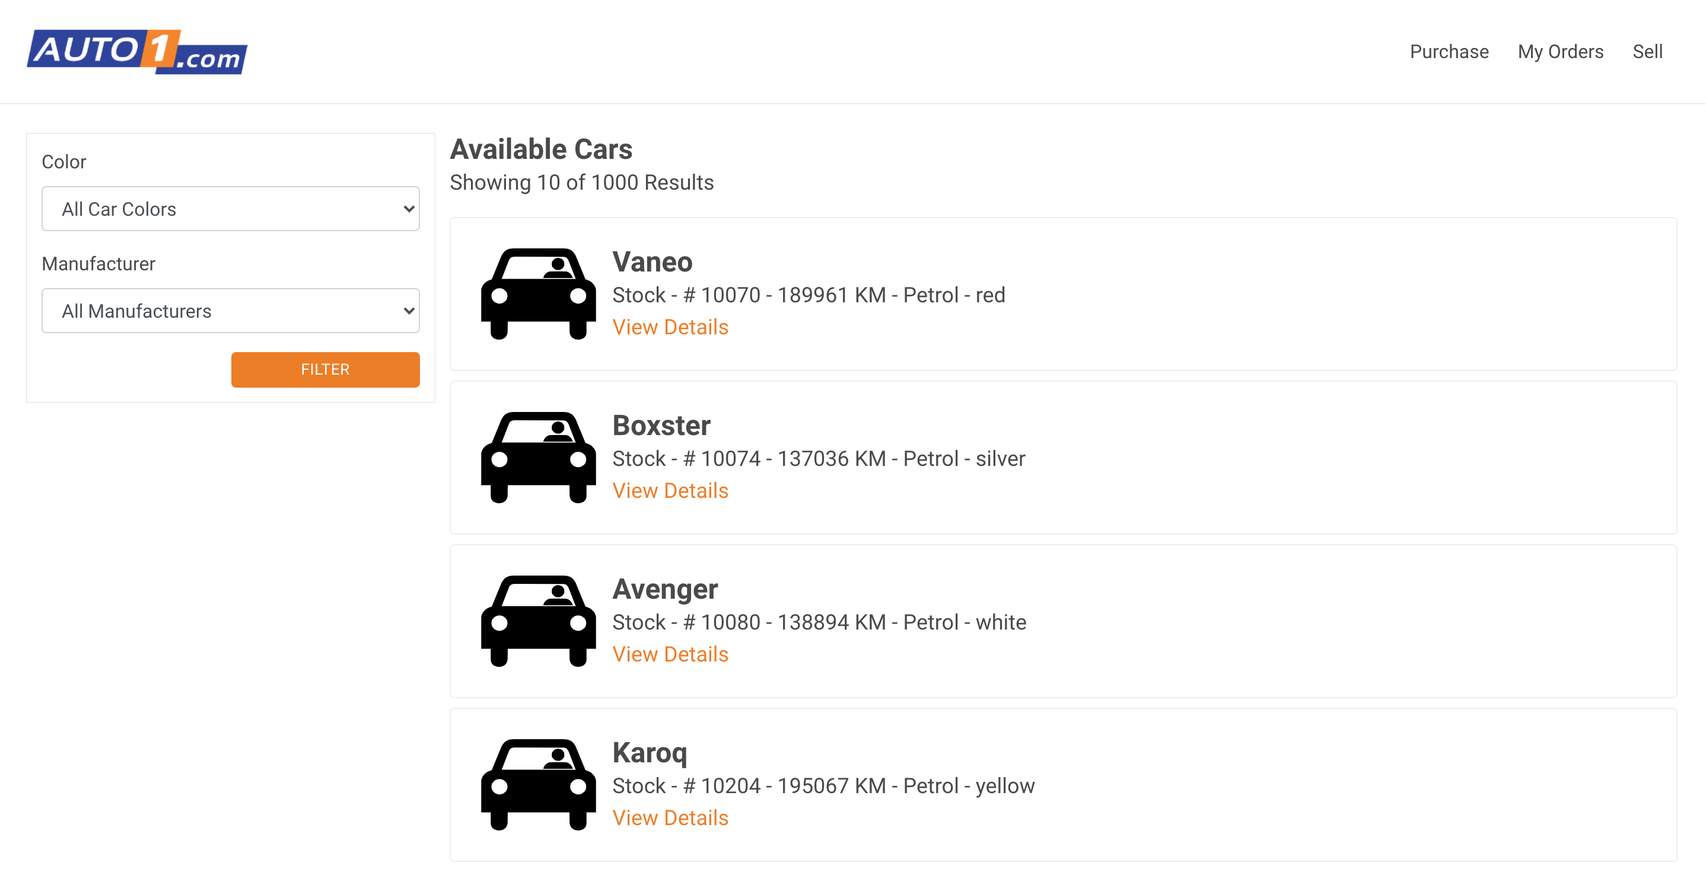
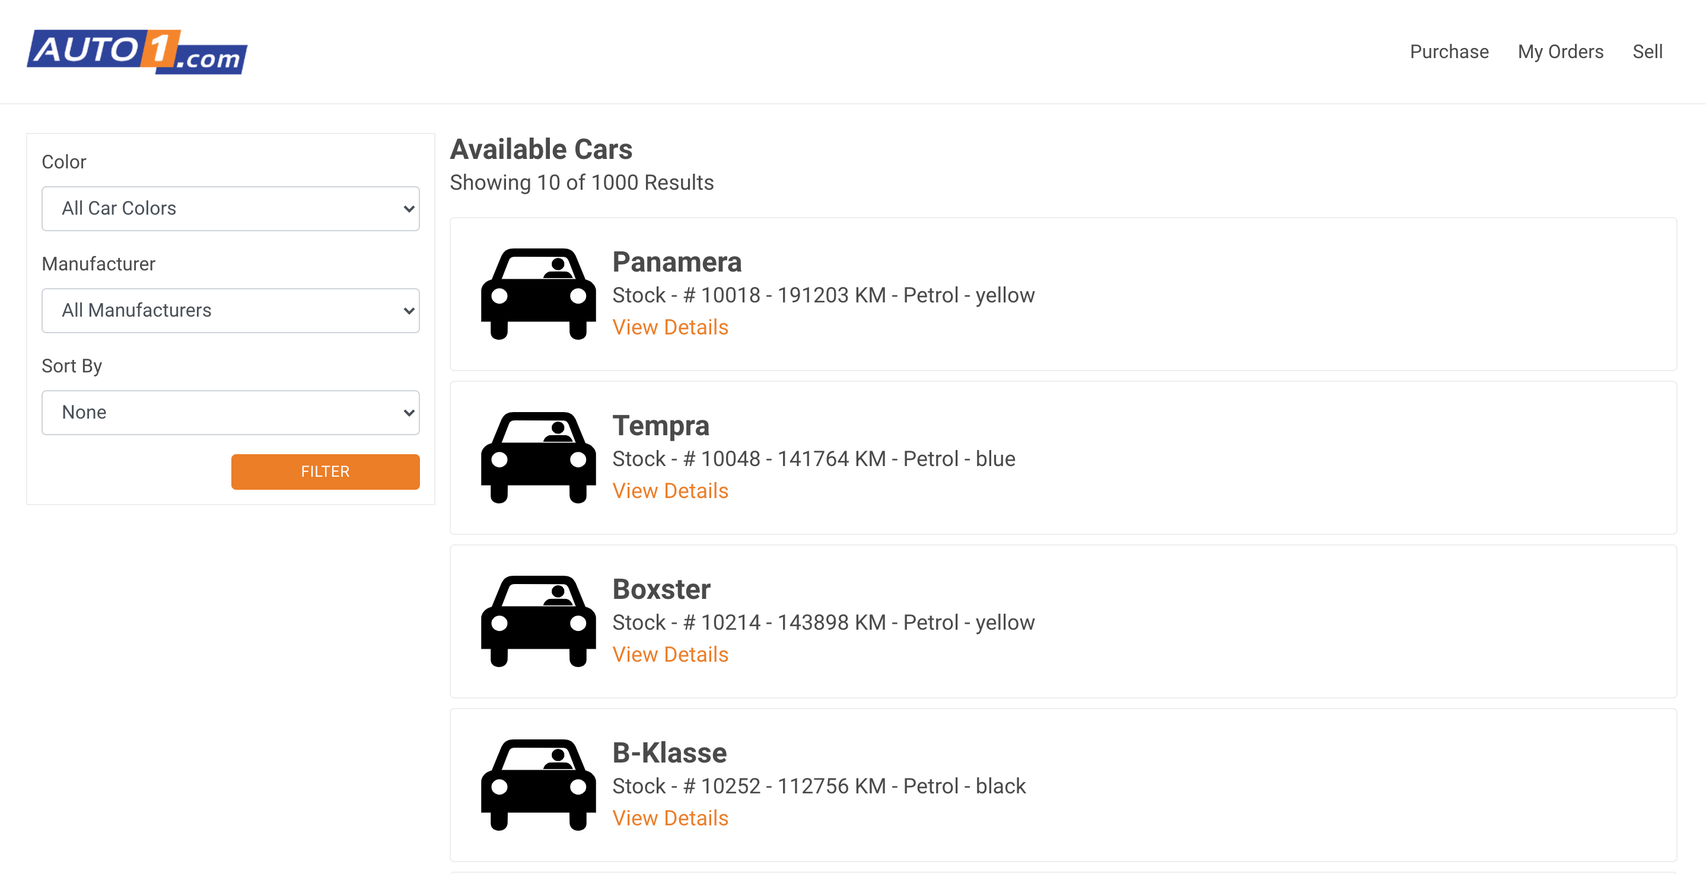
Updates

diff --git a/index.html b/index.html
@@ -1,1 +1,1 @@
-<!doctype html><html lang="en"><head><meta charset="utf-8"/><link rel="icon" href="/car-market/favicon.ico"/><meta name="viewport" content="width=device-width,initial-scale=1"/><meta name="theme-color" content="#000000"/><meta name="description" content="You can find your favourite car here!"/><link rel="apple-touch-icon" href="/car-market/logo192.png"/><link href="https://fonts.googleapis.com/css2?family=Roboto:wght@400;700&display=swap" rel="stylesheet"><link rel="stylesheet" href="https://stackpath.bootstrapcdn.com/bootstrap/4.5.2/css/bootstrap.min.css" integrity="sha384-JcKb8q3iqJ61gNV9KGb8thSsNjpSL0n8PARn9HuZOnIxN0hoP+VmmDGMN5t9UJ0Z" crossorigin="anonymous"><link rel="apple-touch-icon" sizes="57x57" href="/apple-icon-57x57.png"><link rel="apple-touch-icon" sizes="60x60" href="/apple-icon-60x60.png"><link rel="apple-touch-icon" sizes="72x72" href="/apple-icon-72x72.png"><link rel="apple-touch-icon" sizes="76x76" href="/apple-icon-76x76.png"><link rel="apple-touch-icon" sizes="114x114" href="/apple-icon-114x114.png"><link rel="apple-touch-icon" sizes="120x120" href="/apple-icon-120x120.png"><link rel="apple-touch-icon" sizes="144x144" href="/apple-icon-144x144.png"><link rel="apple-touch-icon" sizes="152x152" href="/apple-icon-152x152.png"><link rel="apple-touch-icon" sizes="180x180" href="/apple-icon-180x180.png"><link rel="icon" type="image/png" sizes="192x192" href="/android-icon-192x192.png"><link rel="icon" type="image/png" sizes="32x32" href="/favicon-32x32.png"><link rel="icon" type="image/png" sizes="96x96" href="/favicon-96x96.png"><link rel="icon" type="image/png" sizes="16x16" href="/favicon-16x16.png"><link rel="manifest" href="/manifest.json"><meta name="msapplication-TileColor" content="#ffffff"><meta name="msapplication-TileImage" content="/ms-icon-144x144.png"><meta name="theme-color" content="#ffffff"><link rel="manifest" href="/car-market/manifest.json"/><title>Second Hand Auto Market</title><link href="/car-market/static/css/main.5013f705.chunk.css" rel="stylesheet"></head><body><noscript>You need to enable JavaScript to run this app.</noscript><div id="root"></div><script>!function(e){function t(t){for(var n,o,i=t[0],c=t[1],l=t[2],f=0,p=[];f<i.length;f++)o=i[f],Object.prototype.hasOwnProperty.call(a,o)&&a[o]&&p.push(a[o][0]),a[o]=0;for(n in c)Object.prototype.hasOwnProperty.call(c,n)&&(e[n]=c[n]);for(s&&s(t);p.length;)p.shift()();return u.push.apply(u,l||[]),r()}function r(){for(var e,t=0;t<u.length;t++){for(var r=u[t],n=!0,o=1;o<r.length;o++){var c=r[o];0!==a[c]&&(n=!1)}n&&(u.splice(t--,1),e=i(i.s=r[0]))}return e}var n={},o={2:0},a={2:0},u=[];function i(t){if(n[t])return n[t].exports;var r=n[t]={i:t,l:!1,exports:{}};return e[t].call(r.exports,r,r.exports,i),r.l=!0,r.exports}i.e=function(e){var t=[];o[e]?t.push(o[e]):0!==o[e]&&{5:1,6:1,7:1}[e]&&t.push(o[e]=new Promise((function(t,r){for(var n="static/css/"+({}[e]||e)+"."+{0:"31d6cfe0",4:"31d6cfe0",5:"db647ec7",6:"f9615cb1",7:"1711f841"}[e]+".chunk.css",a=i.p+n,u=document.getElementsByTagName("link"),c=0;c<u.length;c++){var l=(s=u[c]).getAttribute("data-href")||s.getAttribute("href");if("stylesheet"===s.rel&&(l===n||l===a))return t()}var f=document.getElementsByTagName("style");for(c=0;c<f.length;c++){var s;if((l=(s=f[c]).getAttribute("data-href"))===n||l===a)return t()}var p=document.createElement("link");p.rel="stylesheet",p.type="text/css",p.onload=t,p.onerror=function(t){var n=t&&t.target&&t.target.src||a,u=new Error("Loading CSS chunk "+e+" failed.\n("+n+")");u.code="CSS_CHUNK_LOAD_FAILED",u.request=n,delete o[e],p.parentNode.removeChild(p),r(u)},p.href=a,document.getElementsByTagName("head")[0].appendChild(p)})).then((function(){o[e]=0})));var r=a[e];if(0!==r)if(r)t.push(r[2]);else{var n=new Promise((function(t,n){r=a[e]=[t,n]}));t.push(r[2]=n);var u,c=document.createElement("script");c.charset="utf-8",c.timeout=120,i.nc&&c.setAttribute("nonce",i.nc),c.src=function(e){return i.p+"static/js/"+({}[e]||e)+"."+{0:"fe3cbf11",4:"f670e531",5:"468bd410",6:"6a3b373b",7:"e05f62a9"}[e]+".chunk.js"}(e);var l=new Error;u=function(t){c.onerror=c.onload=null,clearTimeout(f);var r=a[e];if(0!==r){if(r){var n=t&&("load"===t.type?"missing":t.type),o=t&&t.target&&t.target.src;l.message="Loading chunk "+e+" failed.\n("+n+": "+o+")",l.name="ChunkLoadError",l.type=n,l.request=o,r[1](l)}a[e]=void 0}};var f=setTimeout((function(){u({type:"timeout",target:c})}),12e4);c.onerror=c.onload=u,document.head.appendChild(c)}return Promise.all(t)},i.m=e,i.c=n,i.d=function(e,t,r){i.o(e,t)||Object.defineProperty(e,t,{enumerable:!0,get:r})},i.r=function(e){"undefined"!=typeof Symbol&&Symbol.toStringTag&&Object.defineProperty(e,Symbol.toStringTag,{value:"Module"}),Object.defineProperty(e,"__esModule",{value:!0})},i.t=function(e,t){if(1&t&&(e=i(e)),8&t)return e;if(4&t&&"object"==typeof e&&e&&e.__esModule)return e;var r=Object.create(null);if(i.r(r),Object.defineProperty(r,"default",{enumerable:!0,value:e}),2&t&&"string"!=typeof e)for(var n in e)i.d(r,n,function(t){return e[t]}.bind(null,n));return r},i.n=function(e){var t=e&&e.__esModule?function(){return e.default}:function(){return e};return i.d(t,"a",t),t},i.o=function(e,t){return Object.prototype.hasOwnProperty.call(e,t)},i.p="/car-market/",i.oe=function(e){throw console.error(e),e};var c=this.webpackJsonpauto1=this.webpackJsonpauto1||[],l=c.push.bind(c);c.push=t,c=c.slice();for(var f=0;f<c.length;f++)t(c[f]);var s=l;r()}([])</script><script src="/car-market/static/js/3.25c97d92.chunk.js"></script><script src="/car-market/static/js/main.723fedfa.chunk.js"></script></body></html>
+<!doctype html><html lang="en"><head><meta charset="utf-8"/><link rel="icon" href="/car-market/favicon.ico"/><meta name="viewport" content="width=device-width,initial-scale=1"/><meta name="theme-color" content="#000000"/><meta name="description" content="You can find your favourite car here!"/><link rel="apple-touch-icon" href="/car-market/logo192.png"/><link href="https://fonts.googleapis.com/css2?family=Roboto:wght@400;700&display=swap" rel="stylesheet"><link rel="stylesheet" href="https://stackpath.bootstrapcdn.com/bootstrap/4.5.2/css/bootstrap.min.css" integrity="sha384-JcKb8q3iqJ61gNV9KGb8thSsNjpSL0n8PARn9HuZOnIxN0hoP+VmmDGMN5t9UJ0Z" crossorigin="anonymous"><link rel="apple-touch-icon" sizes="57x57" href="/apple-icon-57x57.png"><link rel="apple-touch-icon" sizes="60x60" href="/apple-icon-60x60.png"><link rel="apple-touch-icon" sizes="72x72" href="/apple-icon-72x72.png"><link rel="apple-touch-icon" sizes="76x76" href="/apple-icon-76x76.png"><link rel="apple-touch-icon" sizes="114x114" href="/apple-icon-114x114.png"><link rel="apple-touch-icon" sizes="120x120" href="/apple-icon-120x120.png"><link rel="apple-touch-icon" sizes="144x144" href="/apple-icon-144x144.png"><link rel="apple-touch-icon" sizes="152x152" href="/apple-icon-152x152.png"><link rel="apple-touch-icon" sizes="180x180" href="/apple-icon-180x180.png"><link rel="icon" type="image/png" sizes="192x192" href="/android-icon-192x192.png"><link rel="icon" type="image/png" sizes="32x32" href="/favicon-32x32.png"><link rel="icon" type="image/png" sizes="96x96" href="/favicon-96x96.png"><link rel="icon" type="image/png" sizes="16x16" href="/favicon-16x16.png"><link rel="manifest" href="/manifest.json"><meta name="msapplication-TileColor" content="#ffffff"><meta name="msapplication-TileImage" content="/ms-icon-144x144.png"><meta name="theme-color" content="#ffffff"><link rel="manifest" href="/car-market/manifest.json"/><title>Second Hand Auto Market</title><link href="/car-market/static/css/main.5013f705.chunk.css" rel="stylesheet"></head><body><noscript>You need to enable JavaScript to run this app.</noscript><div id="root"></div><script>!function(e){function t(t){for(var n,o,i=t[0],c=t[1],f=t[2],l=0,p=[];l<i.length;l++)o=i[l],Object.prototype.hasOwnProperty.call(a,o)&&a[o]&&p.push(a[o][0]),a[o]=0;for(n in c)Object.prototype.hasOwnProperty.call(c,n)&&(e[n]=c[n]);for(s&&s(t);p.length;)p.shift()();return u.push.apply(u,f||[]),r()}function r(){for(var e,t=0;t<u.length;t++){for(var r=u[t],n=!0,o=1;o<r.length;o++){var c=r[o];0!==a[c]&&(n=!1)}n&&(u.splice(t--,1),e=i(i.s=r[0]))}return e}var n={},o={2:0},a={2:0},u=[];function i(t){if(n[t])return n[t].exports;var r=n[t]={i:t,l:!1,exports:{}};return e[t].call(r.exports,r,r.exports,i),r.l=!0,r.exports}i.e=function(e){var t=[];o[e]?t.push(o[e]):0!==o[e]&&{5:1,6:1,7:1}[e]&&t.push(o[e]=new Promise((function(t,r){for(var n="static/css/"+({}[e]||e)+"."+{0:"31d6cfe0",4:"31d6cfe0",5:"db647ec7",6:"f9615cb1",7:"1711f841"}[e]+".chunk.css",a=i.p+n,u=document.getElementsByTagName("link"),c=0;c<u.length;c++){var f=(s=u[c]).getAttribute("data-href")||s.getAttribute("href");if("stylesheet"===s.rel&&(f===n||f===a))return t()}var l=document.getElementsByTagName("style");for(c=0;c<l.length;c++){var s;if((f=(s=l[c]).getAttribute("data-href"))===n||f===a)return t()}var p=document.createElement("link");p.rel="stylesheet",p.type="text/css",p.onload=t,p.onerror=function(t){var n=t&&t.target&&t.target.src||a,u=new Error("Loading CSS chunk "+e+" failed.\n("+n+")");u.code="CSS_CHUNK_LOAD_FAILED",u.request=n,delete o[e],p.parentNode.removeChild(p),r(u)},p.href=a,document.getElementsByTagName("head")[0].appendChild(p)})).then((function(){o[e]=0})));var r=a[e];if(0!==r)if(r)t.push(r[2]);else{var n=new Promise((function(t,n){r=a[e]=[t,n]}));t.push(r[2]=n);var u,c=document.createElement("script");c.charset="utf-8",c.timeout=120,i.nc&&c.setAttribute("nonce",i.nc),c.src=function(e){return i.p+"static/js/"+({}[e]||e)+"."+{0:"fe3cbf11",4:"f670e531",5:"b306395f",6:"f315a627",7:"e05f62a9"}[e]+".chunk.js"}(e);var f=new Error;u=function(t){c.onerror=c.onload=null,clearTimeout(l);var r=a[e];if(0!==r){if(r){var n=t&&("load"===t.type?"missing":t.type),o=t&&t.target&&t.target.src;f.message="Loading chunk "+e+" failed.\n("+n+": "+o+")",f.name="ChunkLoadError",f.type=n,f.request=o,r[1](f)}a[e]=void 0}};var l=setTimeout((function(){u({type:"timeout",target:c})}),12e4);c.onerror=c.onload=u,document.head.appendChild(c)}return Promise.all(t)},i.m=e,i.c=n,i.d=function(e,t,r){i.o(e,t)||Object.defineProperty(e,t,{enumerable:!0,get:r})},i.r=function(e){"undefined"!=typeof Symbol&&Symbol.toStringTag&&Object.defineProperty(e,Symbol.toStringTag,{value:"Module"}),Object.defineProperty(e,"__esModule",{value:!0})},i.t=function(e,t){if(1&t&&(e=i(e)),8&t)return e;if(4&t&&"object"==typeof e&&e&&e.__esModule)return e;var r=Object.create(null);if(i.r(r),Object.defineProperty(r,"default",{enumerable:!0,value:e}),2&t&&"string"!=typeof e)for(var n in e)i.d(r,n,function(t){return e[t]}.bind(null,n));return r},i.n=function(e){var t=e&&e.__esModule?function(){return e.default}:function(){return e};return i.d(t,"a",t),t},i.o=function(e,t){return Object.prototype.hasOwnProperty.call(e,t)},i.p="/car-market/",i.oe=function(e){throw console.error(e),e};var c=this.webpackJsonpauto1=this.webpackJsonpauto1||[],f=c.push.bind(c);c.push=t,c=c.slice();for(var l=0;l<c.length;l++)t(c[l]);var s=f;r()}([])</script><script src="/car-market/static/js/3.25c97d92.chunk.js"></script><script src="/car-market/static/js/main.723fedfa.chunk.js"></script></body></html>

diff --git a/static/js/5.b306395f.chunk.js b/static/js/5.b306395f.chunk.js
@@ -1,0 +1,2 @@
+(this.webpackJsonpauto1=this.webpackJsonpauto1||[]).push([[5],{111:function(e,t,a){},113:function(e,t,a){},114:function(e,t,a){},134:function(e,t,a){"use strict";a.r(t);var n=a(0),c=a.n(n),l=a(11),r=a(19),o=a(14),i=a.n(o),s=a(105),u=a(17),m=a(116),d=a(31),b=a(133),p=a(132),f=(a(111),a(91)),E=a(30),g=function(){var e=Object(r.b)(),t=Object(r.c)(E.d),a=Object(r.c)(E.h),n=Object(r.c)(E.i),o=Object(r.c)(E.c),g=Object(r.c)(E.g);return c.a.createElement("div",{className:"form-container"},c.a.createElement(m.a,{enableReinitialize:!0,initialValues:{color:o,manufacturer:g,sort:n},onSubmit:function(){var t=Object(u.a)(i.a.mark((function t(a){return i.a.wrap((function(t){for(;;)switch(t.prev=t.next){case 0:e(Object(d.c)(1)),e(Object(d.a)(a.color)),e(Object(d.b)(a.manufacturer)),e(Object(d.d)(a.sort)),e(Object(l.b)(Object(s.a)(Object(s.a)({},a),{},{page:1})));case 5:case"end":return t.stop()}}),t)})));return function(e){return t.apply(this,arguments)}}()},(function(e){var l=e.handleSubmit,r=e.handleChange;return c.a.createElement(b.a,{onSubmit:l},c.a.createElement(b.a.Group,{controlId:"color",onChange:r},c.a.createElement(b.a.Label,null,"Color"),c.a.createElement(b.a.Control,{as:"select","data-testid":"select-color",defaultValue:o},c.a.createElement("option",{value:"","data-testid":"select-color-option"},"All Car Colors"),t.data.map((function(e){return c.a.createElement("option",{key:e,"data-testid":"select-color-option",value:e},Object(f.a)(e))})))),c.a.createElement(b.a.Group,{controlId:"manufacturer",onChange:r},c.a.createElement(b.a.Label,null,"Manufacturer"),c.a.createElement(b.a.Control,{as:"select",defaultValue:g},c.a.createElement("option",{value:"","data-testid":"select-manufacturer-option"},"All Manufacturers"),a.data.map((function(e){return c.a.createElement("option",{key:e.name,"data-testid":"select-manufacturer-option",value:e.name},e.name)})))),c.a.createElement(b.a.Group,{controlId:"sort",onChange:r},c.a.createElement(b.a.Label,null,"Sort By"),c.a.createElement(b.a.Control,{as:"select",defaultValue:n},c.a.createElement("option",{value:"","data-testid":"select-sort-option"},"None"),c.a.createElement("option",{value:"asc","data-testid":"select-sort-option"},"Mileage - Ascending"),c.a.createElement("option",{value:"des","data-testid":"select-sort-option"},"Mileage - Descending"))),c.a.createElement("div",{className:"d-flex justify-content-end"},c.a.createElement(p.a,{type:"submit",className:"form-button","data-testid":"form-button",size:"small"},"Filter")))})))},j=a(130),O=a(135),h=a(20),v=function(e){var t=e.car,a=t.stockNumber,n=t.pictureUrl,l=t.modelName,r=t.fuelType,o=t.mileage.number,i=t.color;return c.a.createElement(j.a,null,c.a.createElement(O.a,{className:"d-flex align-items-center"},c.a.createElement("div",null,c.a.createElement("img",{src:n,className:"card-image",alt:"Car Logo"})),c.a.createElement(O.a.Body,null,c.a.createElement(O.a.Title,null,c.a.createElement("h1",null,l)),c.a.createElement(O.a.Text,null,"Stock - # ",a," - ",o," KM - ",r," - ",i),c.a.createElement(O.a.Text,null,c.a.createElement(h.b,{to:"details/".concat(a),className:"details","data-testid":"view-details"},"View Details")))))},C=(a(113),a(9)),N=a.n(C),y=function(){var e=Object(r.c)(E.b),t=Object(r.c)(E.e),a=Object(r.c)(E.g),n=Object(r.c)(E.i),o=Object(r.c)(E.c),i=e.totalPageCount,s=Object(r.b)(),u=1===t,m=t===i;return c.a.createElement("div",{className:"d-flex justify-content-center mt-3 mb-3"},c.a.createElement("span",{className:N()({"enabled-pagination":!u,"disabled-pagination":u}),onClick:function(){!u&&s(Object(d.c)(1));var e={manufacturer:a,page:1,color:o,sort:n};!u&&s(Object(l.b)(e))},"data-testid":"first-button"},"First"),c.a.createElement("span",{className:N()({"enabled-pagination":!u,"disabled-pagination":u}),onClick:function(){!u&&s(Object(d.f)());var e={manufacturer:a,page:t-1,color:o,sort:n};!u&&s(Object(l.b)(e))},"data-testid":"previous-button"},"Previous"),c.a.createElement("span",{className:"disabled-pagination"},"Page ",t," of ",i),c.a.createElement("span",{className:N()({"enabled-pagination":!m,"disabled-pagination":m}),onClick:function(){!m&&s(Object(d.h)());var e={manufacturer:a,page:t+1,color:o,sort:n};!m&&s(Object(l.b)(e))},"data-testid":"next-button"},"Next"),c.a.createElement("span",{className:N()({"enabled-pagination":!m,"disabled-pagination":m}),onClick:function(){!m&&s(Object(d.c)(i));var e={manufacturer:a,page:i,color:o,sort:n};!m&&s(Object(l.b)(e))},"data-testid":"last-button"},"Last"))},k=a(94),w=a.n(k),x=function(){return new Array(10).fill(0).map((function(e,t){return c.a.createElement(j.a,{key:t},c.a.createElement(O.a,{style:{paddingBottom:"16px",paddingTop:"16px"}},c.a.createElement(w.a,{width:104,height:90}),c.a.createElement(O.a.Body,{className:"d-flex flex-column ml-3"},c.a.createElement(w.a,{width:95,height:28}),c.a.createElement(w.a,{width:170,height:28}),c.a.createElement(w.a,{width:100,height:28}))))}))},L=function(){var e=Object(r.c)(E.b);return c.a.createElement("div",{className:"list-container"},c.a.createElement("h1",null,"Available Cars"),c.a.createElement("p",null,"Showing ",e.data.length||10," of ",e.totalCarsCount," Results"),c.a.createElement("div",null,e.data.length>0?e.data.map((function(e){return c.a.createElement(v,{key:"".concat(e.mileage.number,"-").concat(e.stockNumber),car:e})})):c.a.createElement(x,null)),c.a.createElement(y,null))};a(114),t.default=function(){var e=Object(r.b)(),t=Object(r.c)(E.d),a=Object(r.c)(E.h),o=Object(r.c)(E.b);return Object(n.useEffect)((function(){!t.isLoaded&&e(Object(l.c)()),!a.isLoaded&&e(Object(l.d)()),!o.isLoaded&&e(Object(l.b)({page:1}))}),[]),c.a.createElement("div",{className:"home-content"},c.a.createElement(g,null),c.a.createElement(L,null))}},91:function(e,t,a){"use strict";a.d(t,"a",(function(){return n}));var n=function(e){return"string"!==typeof e?"":e.charAt(0).toUpperCase()+e.slice(1)}}}]);
+//# sourceMappingURL=5.b306395f.chunk.js.map

diff --git a/static/js/runtime-main.e8e352ad.js b/static/js/runtime-main.e8e352ad.js
@@ -1,0 +1,2 @@
+!function(e){function t(t){for(var n,o,i=t[0],c=t[1],f=t[2],l=0,p=[];l<i.length;l++)o=i[l],Object.prototype.hasOwnProperty.call(a,o)&&a[o]&&p.push(a[o][0]),a[o]=0;for(n in c)Object.prototype.hasOwnProperty.call(c,n)&&(e[n]=c[n]);for(s&&s(t);p.length;)p.shift()();return u.push.apply(u,f||[]),r()}function r(){for(var e,t=0;t<u.length;t++){for(var r=u[t],n=!0,o=1;o<r.length;o++){var c=r[o];0!==a[c]&&(n=!1)}n&&(u.splice(t--,1),e=i(i.s=r[0]))}return e}var n={},o={2:0},a={2:0},u=[];function i(t){if(n[t])return n[t].exports;var r=n[t]={i:t,l:!1,exports:{}};return e[t].call(r.exports,r,r.exports,i),r.l=!0,r.exports}i.e=function(e){var t=[];o[e]?t.push(o[e]):0!==o[e]&&{5:1,6:1,7:1}[e]&&t.push(o[e]=new Promise((function(t,r){for(var n="static/css/"+({}[e]||e)+"."+{0:"31d6cfe0",4:"31d6cfe0",5:"db647ec7",6:"f9615cb1",7:"1711f841"}[e]+".chunk.css",a=i.p+n,u=document.getElementsByTagName("link"),c=0;c<u.length;c++){var f=(s=u[c]).getAttribute("data-href")||s.getAttribute("href");if("stylesheet"===s.rel&&(f===n||f===a))return t()}var l=document.getElementsByTagName("style");for(c=0;c<l.length;c++){var s;if((f=(s=l[c]).getAttribute("data-href"))===n||f===a)return t()}var p=document.createElement("link");p.rel="stylesheet",p.type="text/css",p.onload=t,p.onerror=function(t){var n=t&&t.target&&t.target.src||a,u=new Error("Loading CSS chunk "+e+" failed.\n("+n+")");u.code="CSS_CHUNK_LOAD_FAILED",u.request=n,delete o[e],p.parentNode.removeChild(p),r(u)},p.href=a,document.getElementsByTagName("head")[0].appendChild(p)})).then((function(){o[e]=0})));var r=a[e];if(0!==r)if(r)t.push(r[2]);else{var n=new Promise((function(t,n){r=a[e]=[t,n]}));t.push(r[2]=n);var u,c=document.createElement("script");c.charset="utf-8",c.timeout=120,i.nc&&c.setAttribute("nonce",i.nc),c.src=function(e){return i.p+"static/js/"+({}[e]||e)+"."+{0:"fe3cbf11",4:"f670e531",5:"b306395f",6:"f315a627",7:"e05f62a9"}[e]+".chunk.js"}(e);var f=new Error;u=function(t){c.onerror=c.onload=null,clearTimeout(l);var r=a[e];if(0!==r){if(r){var n=t&&("load"===t.type?"missing":t.type),o=t&&t.target&&t.target.src;f.message="Loading chunk "+e+" failed.\n("+n+": "+o+")",f.name="ChunkLoadError",f.type=n,f.request=o,r[1](f)}a[e]=void 0}};var l=setTimeout((function(){u({type:"timeout",target:c})}),12e4);c.onerror=c.onload=u,document.head.appendChild(c)}return Promise.all(t)},i.m=e,i.c=n,i.d=function(e,t,r){i.o(e,t)||Object.defineProperty(e,t,{enumerable:!0,get:r})},i.r=function(e){"undefined"!==typeof Symbol&&Symbol.toStringTag&&Object.defineProperty(e,Symbol.toStringTag,{value:"Module"}),Object.defineProperty(e,"__esModule",{value:!0})},i.t=function(e,t){if(1&t&&(e=i(e)),8&t)return e;if(4&t&&"object"===typeof e&&e&&e.__esModule)return e;var r=Object.create(null);if(i.r(r),Object.defineProperty(r,"default",{enumerable:!0,value:e}),2&t&&"string"!=typeof e)for(var n in e)i.d(r,n,function(t){return e[t]}.bind(null,n));return r},i.n=function(e){var t=e&&e.__esModule?function(){return e.default}:function(){return e};return i.d(t,"a",t),t},i.o=function(e,t){return Object.prototype.hasOwnProperty.call(e,t)},i.p="/car-market/",i.oe=function(e){throw console.error(e),e};var c=this.webpackJsonpauto1=this.webpackJsonpauto1||[],f=c.push.bind(c);c.push=t,c=c.slice();for(var l=0;l<c.length;l++)t(c[l]);var s=f;r()}([]);
+//# sourceMappingURL=runtime-main.e8e352ad.js.map

diff --git a/static/js/6.f315a627.chunk.js b/static/js/6.f315a627.chunk.js
@@ -1,0 +1,2 @@
+(this.webpackJsonpauto1=this.webpackJsonpauto1||[]).push([[6],{102:function(e,t,a){},129:function(e,t,a){"use strict";a.r(t);var n=a(44),c=a(0),l=a.n(c),r=a(3),i=a(19),o=a(11),s=a(31),m=(a(102),a(94)),u=a.n(m),d=a(130),f=a(135),b=a(132),v=a(91),E=a(30);t.default=function(){var e;Object(c.useEffect)((function(){return h(Object(o.a)(t)),function(){h(Object(s.e)())}}),[]);var t=Object(r.f)().id,a=localStorage.getItem(t),m=Object(i.c)(E.a),h=Object(i.b)(),g=Object(c.useState)(a),p=Object(n.a)(g,2),N=p[0],y=p[1];return l.a.createElement("div",{className:"details-page-content"},l.a.createElement("div",{className:"w-100 text-center"},m.pictureUrl?l.a.createElement("img",{src:m.pictureUrl,alt:"Car Logo"}):l.a.createElement(u.a,{width:300,height:260,className:"m-0"})),l.a.createElement("div",{className:"content-container"},l.a.createElement(d.a,null,l.a.createElement(f.a,{className:"d-flex align-items-center"},l.a.createElement(f.a.Body,null,l.a.createElement(f.a.Title,null,l.a.createElement("h1",null,m.modelName||l.a.createElement(u.a,{className:"m-0",width:100}))),l.a.createElement(f.a.Text,null,"Stock #"," ",m.stockNumber?"".concat(m.stockNumber," - ").concat(null===m||void 0===m||null===(e=m.mileage)||void 0===e?void 0:e.number," KM - ").concat(m.fuelType," - ").concat(Object(v.a)(m.color)):l.a.createElement(u.a,{className:"m-0",width:150})),l.a.createElement(f.a.Text,{className:"detail-text"},"This car is currently available and can be delivered as soon as tomorrow morning. Please be aware that delivery times shown in this page are not definitive and may change due to bad weather conditions.")))),l.a.createElement(d.a,null,l.a.createElement(f.a,{className:"d-flex align-items-center"},l.a.createElement(f.a.Body,null,l.a.createElement(f.a.Text,null,"If you like this car, click the button and save it in your collection of favourite items."),l.a.createElement("div",{className:"d-flex justify-content-end"},l.a.createElement(b.a,{type:"submit",className:"form-button mt-2","data-testid":"save-button",size:"small",onClick:function(){N?(y(!1),localStorage.removeItem(t)):(y(!0),localStorage.setItem(t,!0))}},a?"UnSave":"Save")))))))}},91:function(e,t,a){"use strict";a.d(t,"a",(function(){return n}));var n=function(e){return"string"!==typeof e?"":e.charAt(0).toUpperCase()+e.slice(1)}}}]);
+//# sourceMappingURL=6.f315a627.chunk.js.map

diff --git a/precache-manifest.a6e2710d76ce3ea2f4c0568d7f30e4a5.js b/precache-manifest.a6e2710d76ce3ea2f4c0568d7f30e4a5.js
@@ -1,14 +1,14 @@
 self.__precacheManifest = (self.__precacheManifest || []).concat([
   {
-    "revision": "c358e57266c3a640e2653465419f6e47",
+    "revision": "c0fa80d89535a1be27b7475d27c31e8c",
     "url": "/car-market/index.html"
   },
   {
-    "revision": "e72835232061756dbbd5",
+    "revision": "b73842051fc078fc8ea5",
     "url": "/car-market/static/css/5.db647ec7.chunk.css"
   },
   {
-    "revision": "9fb8b448a17deeb7cd77",
+    "revision": "6950abb38c5c0d0853d7",
     "url": "/car-market/static/css/6.f9615cb1.chunk.css"
   },
   {
@@ -44,12 +44,12 @@ self.__precacheManifest = (self.__precacheManifest || []).concat([
     "url": "/car-market/static/js/4.f670e531.chunk.js.LICENSE.txt"
   },
   {
-    "revision": "e72835232061756dbbd5",
-    "url": "/car-market/static/js/5.468bd410.chunk.js"
+    "revision": "b73842051fc078fc8ea5",
+    "url": "/car-market/static/js/5.b306395f.chunk.js"
   },
   {
-    "revision": "9fb8b448a17deeb7cd77",
-    "url": "/car-market/static/js/6.6a3b373b.chunk.js"
+    "revision": "6950abb38c5c0d0853d7",
+    "url": "/car-market/static/js/6.f315a627.chunk.js"
   },
   {
     "revision": "76fabd3450da315086ba",
@@ -60,8 +60,8 @@ self.__precacheManifest = (self.__precacheManifest || []).concat([
     "url": "/car-market/static/js/main.723fedfa.chunk.js"
   },
   {
-    "revision": "b09282ccd650e9bb0bc2",
-    "url": "/car-market/static/js/runtime-main.8b5e22a0.js"
+    "revision": "6582e242deac166e72cd",
+    "url": "/car-market/static/js/runtime-main.e8e352ad.js"
   },
   {
     "revision": "fb20abffd6ef7a76d0fe114e283e1bc3",

diff --git a/service-worker.js b/service-worker.js
@@ -14,7 +14,7 @@
 importScripts("https://storage.googleapis.com/workbox-cdn/releases/4.3.1/workbox-sw.js");
 
 importScripts(
-  "/car-market/precache-manifest.4569e2ef239c046ddeedf9c37bf55d79.js"
+  "/car-market/precache-manifest.a6e2710d76ce3ea2f4c0568d7f30e4a5.js"
 );
 
 self.addEventListener('message', (event) => {
